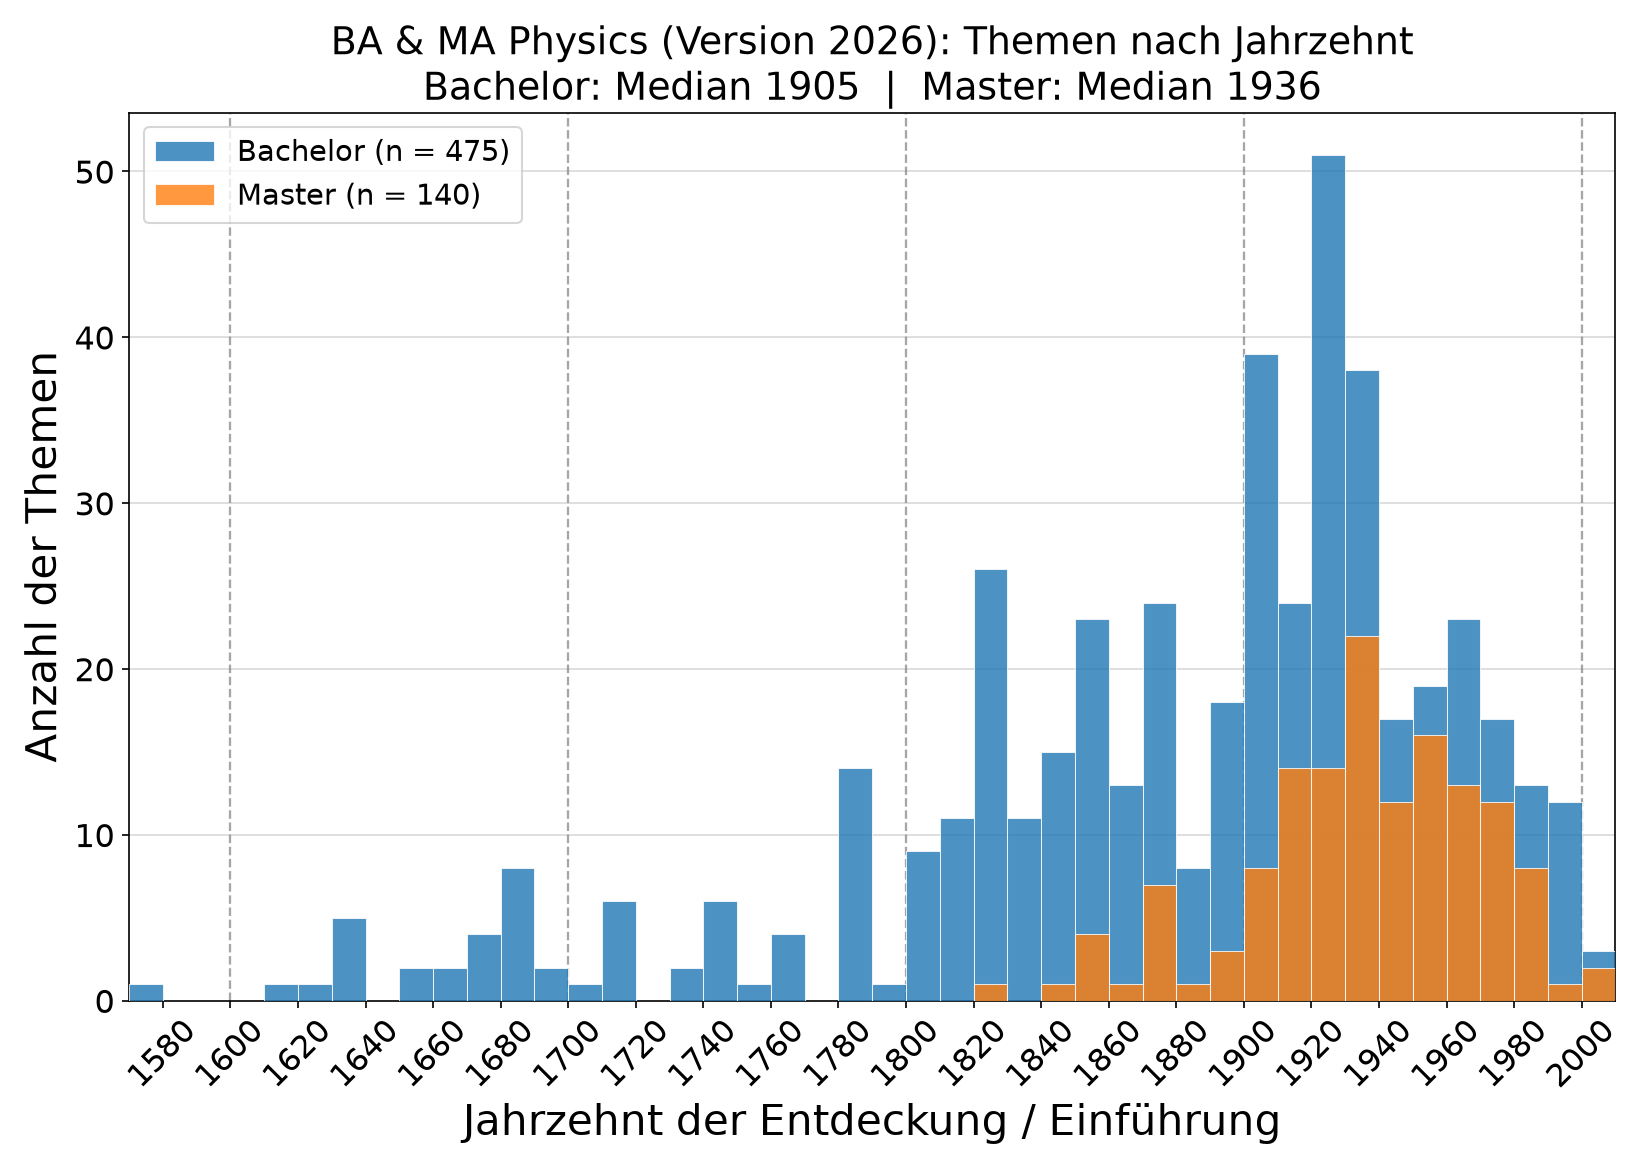
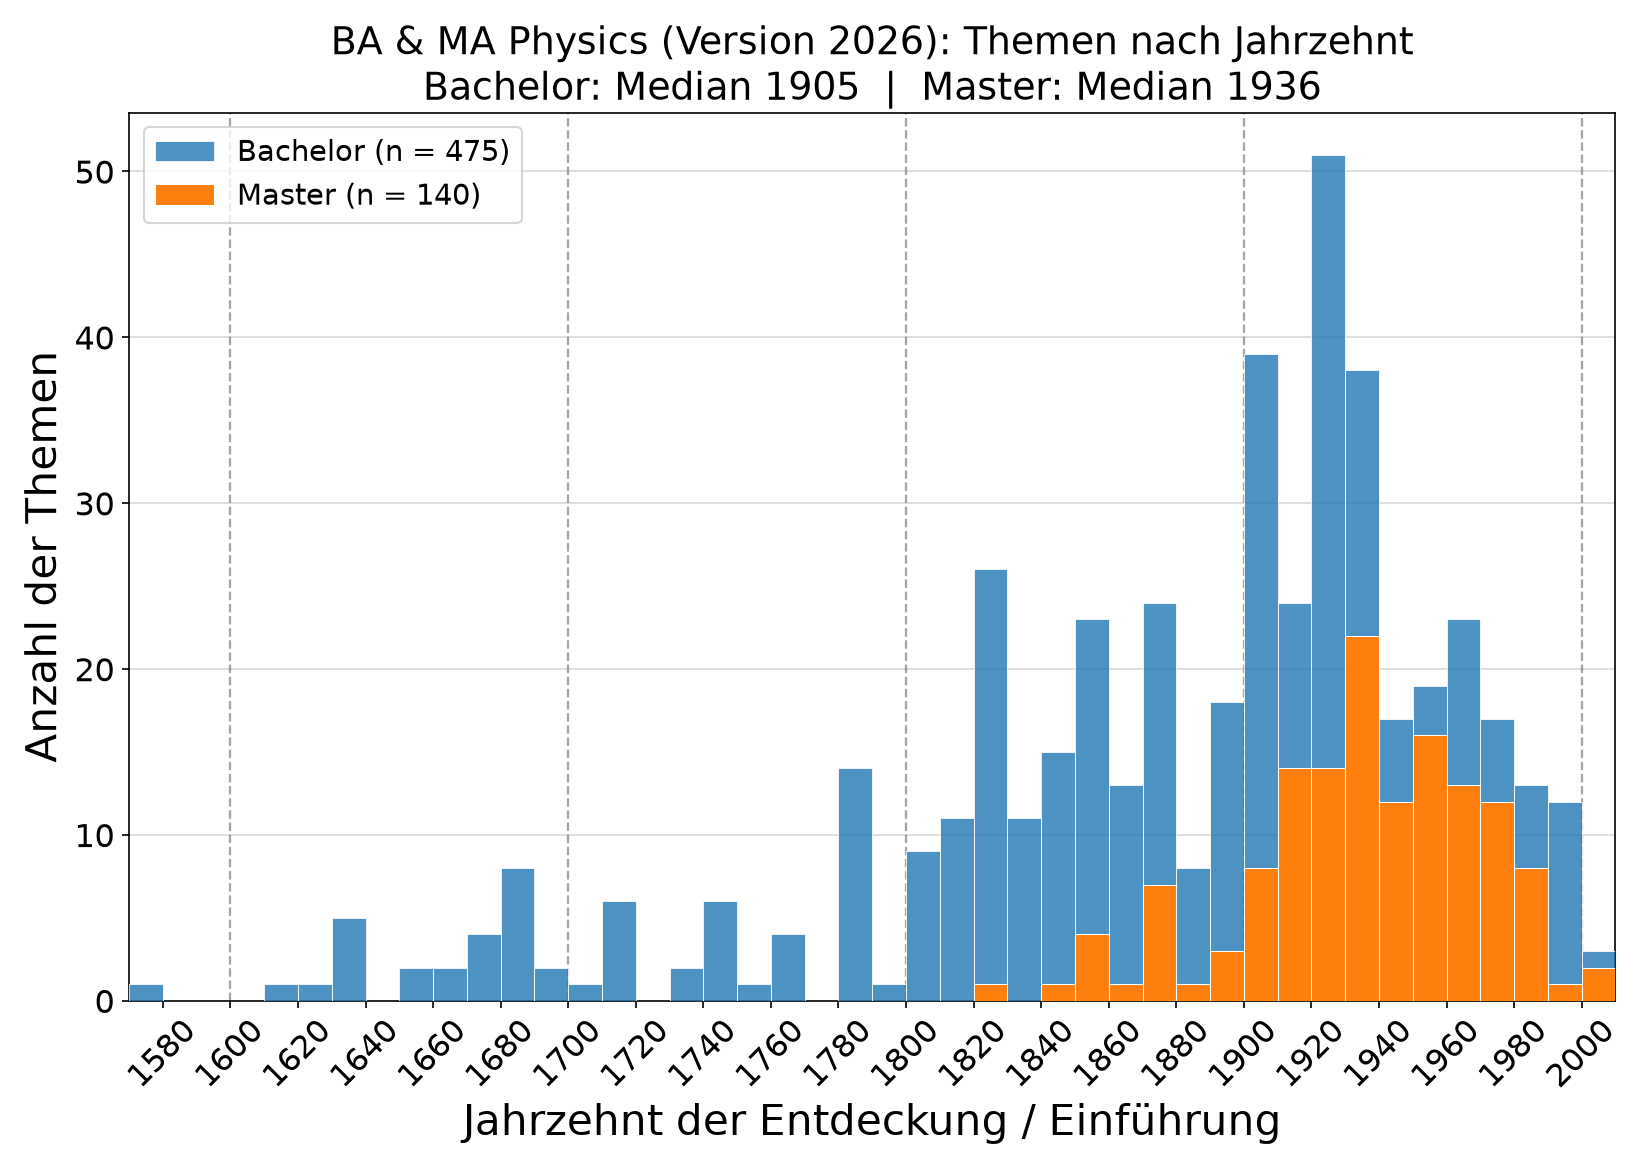
Make Master (orange) bars opaque in the combined histogram
Improves readability of the Bachelor/Master overlay.

Changed region(s): [[0.5873, 0.5231, 0.9891, 0.8615], [0.0927, 0.1538, 0.1545, 0.1846]]

diff --git a/code/make_combined_histogram.py b/code/make_combined_histogram.py
@@ -65,7 +65,7 @@ def make_combined(ba, ma, lang, outfile):
     fig, ax = plt.subplots(figsize=(11, 7.8))
     ax.hist(ba, bins=bins, color="tab:blue", alpha=0.8,
             edgecolor="white", linewidth=0.5, label=lbl_ba, zorder=3)
-    ax.hist(ma, bins=bins, color="tab:orange", alpha=0.8,
+    ax.hist(ma, bins=bins, color="tab:orange", alpha=1.0,
             edgecolor="white", linewidth=0.5, label=lbl_ma, zorder=4)
 
     ax.set_xlabel(xlabel, fontsize=20)